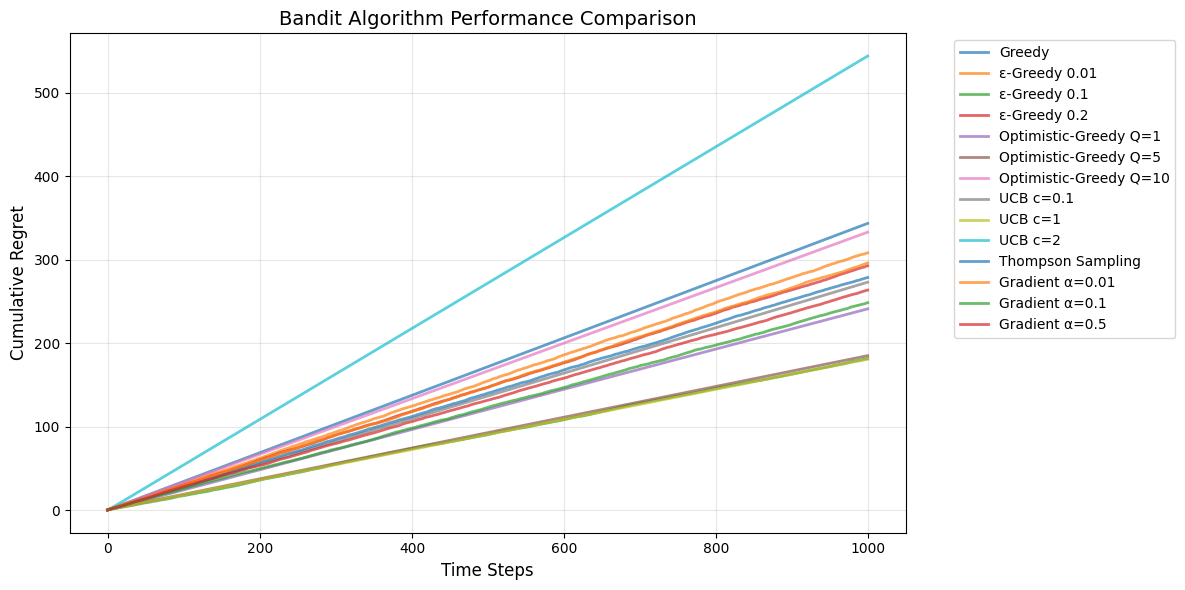
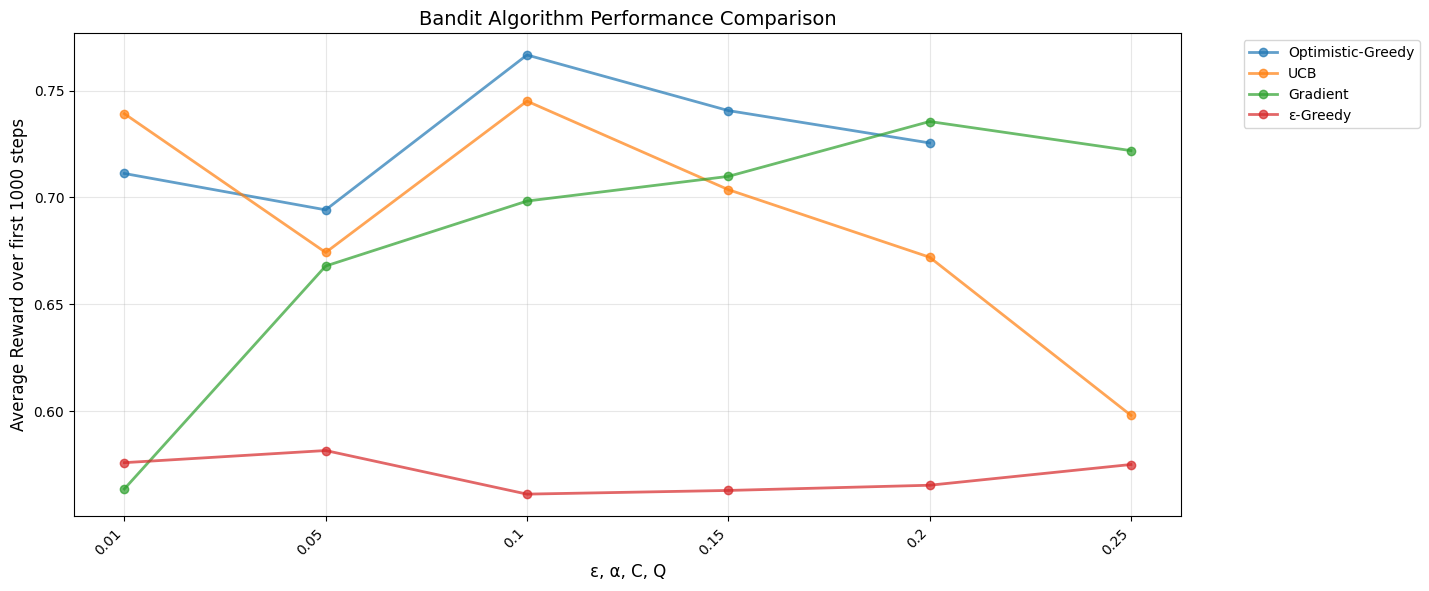
Implemented Gradient, Greedy, Upper Confidence Bound, Thompson and Explore Then Commit alogithms

diff --git a/lab1/test_bandits.py b/lab1/test_bandits.py
@@ -5,53 +5,71 @@ from bandits import (
     BanditProblem,
     GradientLearner,
     GreedyLearner,
-    ThompsonLearner,
     TopHitBandit,
     UpperConfidenceBoundLearner,
 )
 
 
-# Randomize potential hit probabilities for each test run
+# Randomize potential hit probabilities for each test run/ Random Expected Values of Probabilities
 def generate_potential_hits():
     return {f"Song {i}": np.random.uniform(0.1, 0.9) for i in range(5)}
 
 
-# Define learners with specific parameter ranges
+# Define learners with specific parameter ranges/Parametric Case Study
 bandit_configurations = [
     # Greedy Learners
-    ("Greedy", GreedyLearner, {"strategy": "Greedy"}),
-    ("ε-Greedy 0.01", GreedyLearner, {"strategy": "ε-Greedy", "epsilon": 0.01}),
-    ("ε-Greedy 0.1", GreedyLearner, {"strategy": "ε-Greedy", "epsilon": 0.1}),
-    ("ε-Greedy 0.2", GreedyLearner, {"strategy": "ε-Greedy", "epsilon": 0.2}),
-    ("Optimistic-Greedy Q=1", GreedyLearner, {"strategy": "Optimistic-Greedy", "Q": 1}),
-    ("Optimistic-Greedy Q=5", GreedyLearner, {"strategy": "Optimistic-Greedy", "Q": 5}),
+    ("ε-Greedy", GreedyLearner, {"strategy": "ε-Greedy", "epsilon": 0.01}),
+    ("ε-Greedy", GreedyLearner, {"strategy": "ε-Greedy", "epsilon": 0.05}),
+    ("ε-Greedy", GreedyLearner, {"strategy": "ε-Greedy", "epsilon": 0.1}),
+    ("ε-Greedy", GreedyLearner, {"strategy": "ε-Greedy", "epsilon": 0.15}),
+    ("ε-Greedy", GreedyLearner, {"strategy": "ε-Greedy", "epsilon": 0.2}),
+    ("ε-Greedy", GreedyLearner, {"strategy": "ε-Greedy", "epsilon": 0.25}),
     (
-        "Optimistic-Greedy Q=10",
+        "Optimistic-Greedy",
         GreedyLearner,
-        {"strategy": "Optimistic-Greedy", "Q": 10},
+        {"strategy": "Optimistic-Greedy", "Q": 0.1},
     ),
+    (
+        "Optimistic-Greedy",
+        GreedyLearner,
+        {"strategy": "Optimistic-Greedy", "Q": 0.5},
+    ),
+    (
+        "Optimistic-Greedy",
+        GreedyLearner,
+        {"strategy": "Optimistic-Greedy", "Q": 1},
+    ),
+    ("Optimistic-Greedy", GreedyLearner, {"strategy": "Optimistic-Greedy", "Q": 2}),
+    ("Optimistic-Greedy", GreedyLearner, {"strategy": "Optimistic-Greedy", "Q": 5}),
     # Upper Confidence Bound (UCB)
-    ("UCB c=0.1", UpperConfidenceBoundLearner, {"c": 0.1}),
-    ("UCB c=1", UpperConfidenceBoundLearner, {"c": 1}),
-    ("UCB c=2", UpperConfidenceBoundLearner, {"c": 2}),
-    # Thompson Sampling
-    ("Thompson Sampling", ThompsonLearner, {}),
+    ("UCB", UpperConfidenceBoundLearner, {"c": 0.05}),
+    ("UCB", UpperConfidenceBoundLearner, {"c": 0.1}),
+    ("UCB", UpperConfidenceBoundLearner, {"c": 0.5}),
+    ("UCB", UpperConfidenceBoundLearner, {"c": 1}),
+    ("UCB", UpperConfidenceBoundLearner, {"c": 2}),
+    ("UCB", UpperConfidenceBoundLearner, {"c": 4}),
     # Gradient Bandit
-    ("Gradient α=0.01", GradientLearner, {"alpha": 0.01}),
-    ("Gradient α=0.1", GradientLearner, {"alpha": 0.1}),
-    ("Gradient α=0.5", GradientLearner, {"alpha": 0.5}),
+    ("Gradient", GradientLearner, {"alpha": 0.01}),
+    ("Gradient", GradientLearner, {"alpha": 0.05}),
+    ("Gradient", GradientLearner, {"alpha": 0.1}),
+    ("Gradient", GradientLearner, {"alpha": 0.2}),
+    ("Gradient", GradientLearner, {"alpha": 0.5}),
+    ("Gradient", GradientLearner, {"alpha": 1}),
 ]
 
+bandits = set(configuration[0] for configuration in bandit_configurations)
+parameters = set(
+    list(configuration[-1].values())[-1] for configuration in bandit_configurations
+)
 
-results_storage = {}
+results_storage = {bandit: {"avg_reward": [], "param": []} for bandit in bandits}
 
 
-@pytest.fixture(scope="function")
+@pytest.fixture(scope="session")
 def store_results(request):
     yield
     # After test completes, check if we have all data
-    if len(results_storage) == len(bandit_configurations):
-        generate_final_plot()
+    generate_final_plot()
 
 
 @pytest.mark.parametrize(
@@ -60,72 +78,54 @@ def store_results(request):
 def test_bandit_learner(learner_name, learner_class, param_dict, store_results):
     """Test and store results for final plotting"""
     time_steps = 1000
-    num_runs = 5  # Start with 5 runs for testing
+    num_runs = 50
 
-    cumulative_regrets = []
+    average_reward = 0
 
-    for _ in range(num_runs):
+    for n in range(num_runs):
         potential_hits = generate_potential_hits()
         bandit = TopHitBandit(potential_hits)
         optimal_prob = max(potential_hits.values())
 
-        try:
-            learner = learner_class(**param_dict)
-            problem = BanditProblem(time_steps, bandit, learner)
-            rewards, actions = problem.run()
+        learner = learner_class(**param_dict)
+        problem = BanditProblem(time_steps, bandit, learner)
+        rewards = problem.run()
+        rewards = np.array(rewards)
+        average_reward += (1 / (n + 1)) * (np.mean(rewards) - average_reward)
 
-            # Verify actions were generated
-            if not actions or len(actions) != time_steps:
-                print(f"Warning: {learner_name} produced invalid actions")
-                continue
-
-            # Calculate proper regret
-            arm_probs = potential_hits
-            regret = [optimal_prob - arm_probs[action] for action in actions]
-            cumulative_regret = np.cumsum(regret)
-            cumulative_regrets.append(cumulative_regret)
-
-        except Exception as e:
-            print(f"Error in {learner_name}: {str(e)}")
-            continue
-
-    # Only store if we have valid data
-    if cumulative_regrets:
-        avg_regret = np.mean(cumulative_regrets, axis=0)
-        results_storage[learner_name] = avg_regret
-    else:
-        print(f"Skipping {learner_name} - no valid data")
-        results_storage[learner_name] = np.array([])
+    results_storage[learner_name]["avg_reward"].append(average_reward)
+    results_storage[learner_name]["param"].append(
+        param_dict[list(param_dict.keys())[-1]]
+    )
 
 
 def generate_final_plot():
     """Generate and save the final comparison plot"""
     plt.figure(figsize=(12, 6))
 
-    # Add debug prints to verify data
     print("\n=== Plot Data Verification ===")
-    for learner_name, regret_curve in results_storage.items():
-        if len(regret_curve) == 0:
-            print(f"⚠ Warning: {learner_name} has an empty regret curve!")
-        print(f"{learner_name}:")
-        print(f"  Data points: {len(regret_curve)}")
-        print(f"  Min regret: {np.min(regret_curve):.2f}")
-        print(f"  Max regret: {np.max(regret_curve):.2f}")
-        print(f"  First 5 values: {regret_curve[:5]}")
+    for learner in results_storage.keys():
+        params = results_storage[learner]["param"]
+        avg_rewards = results_storage[learner]["avg_reward"]
 
-        print(f"Plotting {learner_name}: {len(regret_curve)} points")
-        # Explicit line styling
+        x_indices = range(len(params))
         plt.plot(
-            regret_curve,
-            label=learner_name,
+            x_indices,
+            avg_rewards,
+            label=learner,
             linewidth=2,
             alpha=0.7,
-            marker="",  # Explicitly disable markers
+            marker="o",
         )
 
-    plt.xlabel("Time Steps", fontsize=12)
-    plt.ylabel("Cumulative Regret", fontsize=12)
+        plt.xticks(x_indices, params, rotation=45, ha="right")
+
+    plt.xlabel("ε, α, C, Q", fontsize=12)
+    plt.ylabel("Average Reward over first 1000 steps", fontsize=12)
     plt.title("Bandit Algorithm Performance Comparison", fontsize=14)
+
+    plt.grid(True, alpha=0.3)
+    plt.tight_layout()
 
     # Force legend even if empty
     handles, labels = plt.gca().get_legend_handles_labels()
@@ -136,12 +136,6 @@ def generate_final_plot():
             handles, labels, bbox_to_anchor=(1.05, 1), loc="upper left", fontsize=10
         )
 
-    plt.grid(True, alpha=0.3)
-    plt.tight_layout()
-
-    # Save in multiple formats for debugging
-    plt.savefig("bandit_performance.png", bbox_inches="tight")
-    plt.savefig(
-        "bandit_performance.svg", bbox_inches="tight"
-    )  # Vector format for inspection
-    print("\n--- Saved plots to bandit_performance.png and .svg ---")
+    # Save the plot
+    plt.savefig("lab1/bandit_performance.png", bbox_inches="tight")
+    print("\n--- Saved plots to bandit_performance.png ---")

diff --git a/lab1/bandits.py b/lab1/bandits.py
@@ -45,21 +45,12 @@ class BanditProblem:
 
     def run(self) -> list[float]:
         rewards = []
-        actions = []
-
-        for t in range(self.time_steps):
-            action = self.learner.pick_arm()
-            reward = self.bandit.reward(action)
-
-            if action is None or reward is None:
-                print(f"⚠ Error at t={t}: action={action}, reward={reward}")
-                continue
-
+        for _ in range(self.time_steps):
+            arm = self.learner.pick_arm()
+            reward = self.bandit.reward(arm)
+            self.learner.acknowledge_reward(arm, reward)
             rewards.append(reward)
-            actions.append(action)
-
-        print(f"✅ Run completed: {len(rewards)} rewards, {len(actions)} actions")
-        return rewards, actions
+        return rewards
 
 
 POTENTIAL_HITS = {
@@ -100,7 +91,7 @@ class RandomLearner(BanditLearner):
 
 
 class ExploreThenCommitLearner(BanditLearner):
-    def __init__(self, m: int = 5):
+    def __init__(self, m: int = 10):
         self.name = "ETC"
         self.color = "blue"
         self.arms: list[str] = []
@@ -149,9 +140,9 @@ class UpperConfidenceBoundLearner(BanditLearner):
         self.time_step = 0
 
     def pick_arm(self) -> str:
-        if self.time_step < self.k_arms:
-            self.time_step += 1
-            return self.arms[self.time_step % self.k_arms]
+        self.time_step += 1
+        if self.time_step <= self.k_arms:
+            return self.arms[self.time_step - 1]
         else:
             self.calculate_ubc()
             return max(self.arms_ubc, key=self.arms_ubc.get)
@@ -163,9 +154,12 @@ class UpperConfidenceBoundLearner(BanditLearner):
 
     def calculate_ubc(self):
         for arm in self.arms:
-            self.arms_ubc[arm] = self.arms_means[arm] + (
-                self.c * np.sqrt(np.log(self.time_step) / self.arms_pulls[arm])
-            )
+            if self.arms_pulls[arm] == 0:
+                self.arms_ubc[arm] = float("inf")
+            else:
+                self.arms_ubc[arm] = self.arms_means[arm] + (
+                    self.c * np.sqrt(np.log(self.time_step) / self.arms_pulls[arm])
+                )
 
 
 class GreedyLearner(BanditLearner):
@@ -257,14 +251,21 @@ class GradientLearner(BanditLearner):
         self.reward_baseline = 0.0
 
     def pick_arm(self) -> str:
-        probabilities = softmax(list(self.preferences.values()))
+        probabilities = softmax(
+            list(self.preferences.values())
+        )  # Compute action probabilities
         return np.random.choice(self.arms, p=probabilities)
 
     def acknowledge_reward(self, arm: str, reward: float) -> None:
+        """Update preferences based on the received reward"""
         self.time_step += 1
-        self.reward_baseline += (1 / self.time_step) * (reward - self.reward_baseline)
+        self.reward_baseline += (1 / self.time_step) * (
+            reward - self.reward_baseline
+        )  # Update baseline
 
-        probabilities = softmax(list(self.preferences.values()))
+        probabilities = softmax(
+            list(self.preferences.values())
+        )  # Compute probabilities before updating
 
         for i, a in enumerate(self.arms):
             if a == arm:
@@ -284,6 +285,7 @@ class ThompsonLearner(BanditLearner):
         self.name = "Thompson"
         self.color = "olive"
         self.arms: list[str] = []
+        self.time_step = 0
         self.k_arms: int = None
         self.arms_stats: dict[str] = {}
 
@@ -305,8 +307,8 @@ class ThompsonLearner(BanditLearner):
         self.arms_stats[arm]["b"] += 1 - reward
 
 
-TIME_STEPS = 1000
-TRIALS_PER_LEARNER = 50
+TIME_STEPS = 5000
+TRIALS_PER_LEARNER = 200
 
 
 def evaluate_learner(learner: BanditLearner) -> None:
@@ -314,7 +316,7 @@ def evaluate_learner(learner: BanditLearner) -> None:
     for _ in range(TRIALS_PER_LEARNER):
         bandit = TopHitBandit(POTENTIAL_HITS)
         problem = BanditProblem(time_steps=TIME_STEPS, bandit=bandit, learner=learner)
-        rewards, _ = problem.run()
+        rewards = problem.run()
         accumulated_rewards = list(accumulate(rewards))
         runs_results.append(accumulated_rewards)
 
@@ -335,8 +337,8 @@ def main():
     learners = [
         RandomLearner(),
         ExploreThenCommitLearner(),
-        UpperConfidenceBoundLearner(),
         GreedyLearner(),
+        UpperConfidenceBoundLearner(),
         GradientLearner(),
         ThompsonLearner(),
     ]
